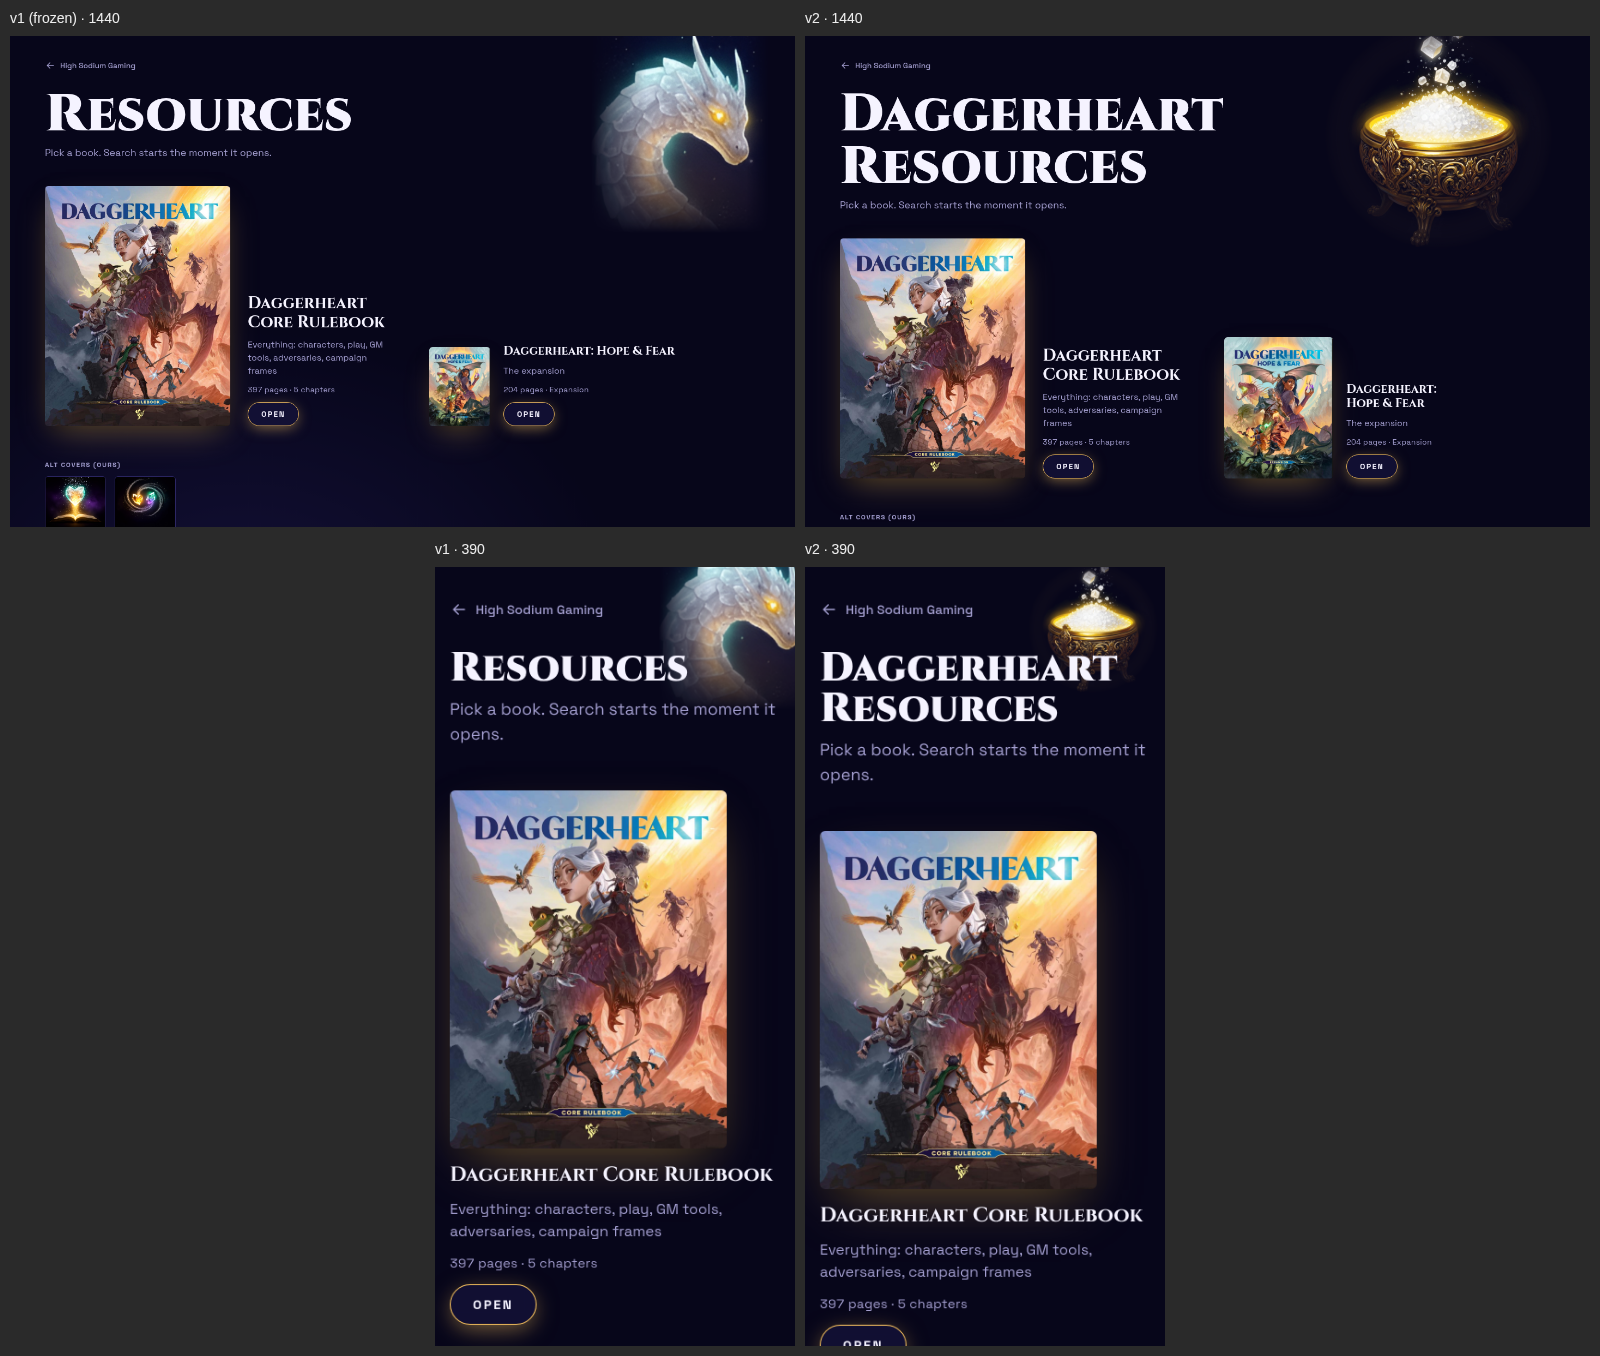
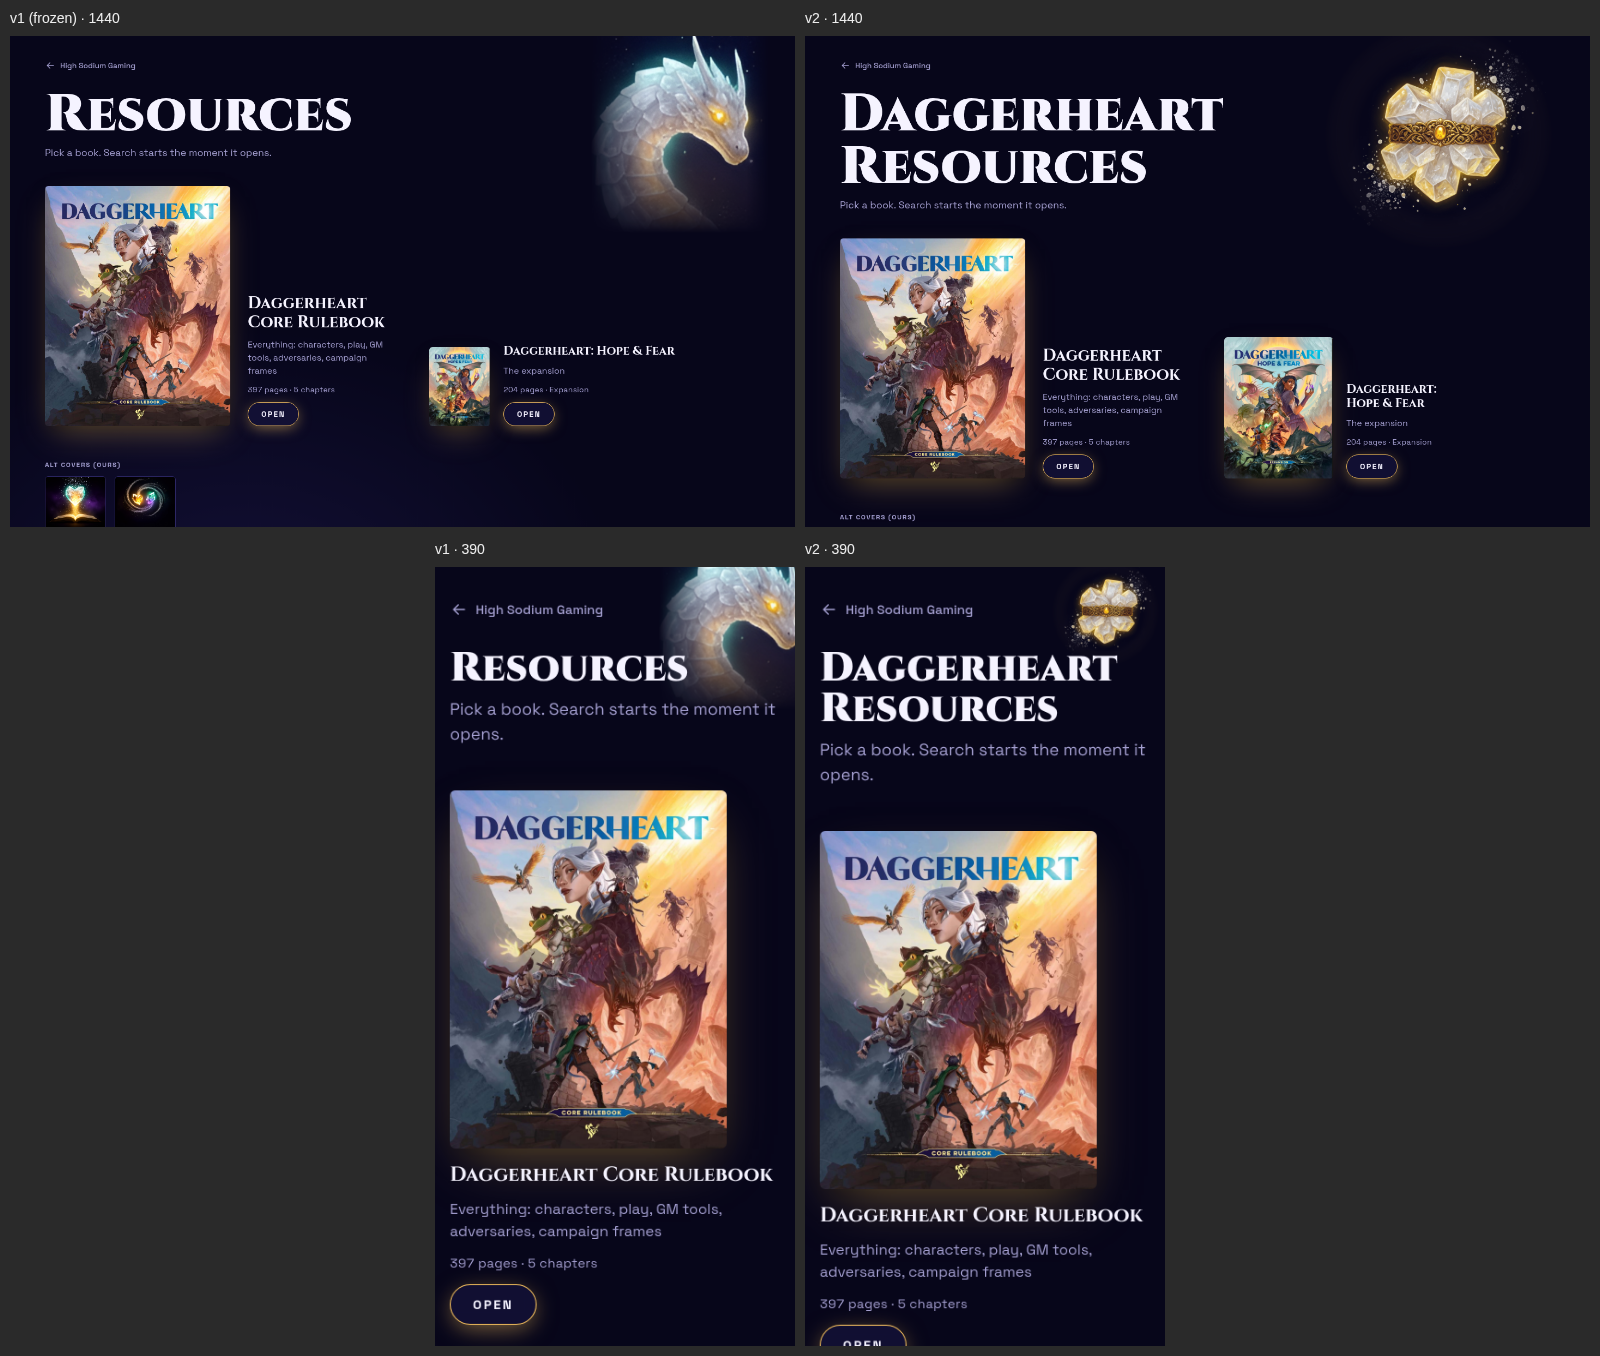
Design steer 1b: crystal cluster as the /resources art; cellar and hourglass as alternates

Changed region(s): [[0.8438, 0.031, 0.9688, 0.1858], [0.6562, 0.4027, 0.7188, 0.4956]]

diff --git a/design/directions/f1-wyrm-eclipse/resources.html b/design/directions/f1-wyrm-eclipse/resources.html
@@ -10,8 +10,8 @@
 <style>
 /* F1 v2 (steer 1): a fancy art piece top right with a glow of the heart gold behind it.
    The art sits on pure black; the whole piece is screen-blended onto the page so the black
-   disappears, and a radial mask removes any edge. Swap the art with ?art=hourglass|crystal. */
-.art { position: absolute; top: calc(var(--s3) * -1); right: 0; width: 40vw; max-width: 420px; aspect-ratio: 1; mix-blend-mode: screen; z-index: 0; pointer-events: none; }
+   disappears, and a radial mask removes any edge. Swap the art with ?art=cellar|hourglass. */
+.art { position: absolute; top: calc(var(--s4) * -1); right: 0; width: 33vw; max-width: 420px; aspect-ratio: 1; mix-blend-mode: screen; z-index: 0; pointer-events: none; }
 .art::before { content: ""; position: absolute; inset: 4%; border-radius: 50%;
   background: radial-gradient(closest-side, color-mix(in srgb, var(--gold) 46%, transparent), color-mix(in srgb, var(--gold) 16%, transparent) 55%, transparent); }
 .art img { position: relative; width: 100%; height: 100%; object-fit: cover; display: block;
@@ -41,10 +41,10 @@
 <body>
 <a class="skip" href="#main">Skip to content</a>
 <div class="res-page">
-  <div class="art" aria-hidden="true"><img id="art" src="../../imagery/G/g-art-salt-cellar.jpg" alt=""></div>
+  <div class="art" aria-hidden="true"><img id="art" src="../../imagery/G/g-art-crystal-cluster.jpg" alt=""></div>
   <script>
-  // one-word swap for Kaden: resources.html?art=hourglass | crystal (default: salt cellar)
-  (function () { const a = new URLSearchParams(location.search).get('art'); const m = { hourglass: 'g-art-hourglass', crystal: 'g-art-crystal-cluster' };
+  // one-word swap for Kaden: resources.html?art=cellar | hourglass (default: crystal cluster, Kaden 2026-11-15)
+  (function () { const a = new URLSearchParams(location.search).get('art'); const m = { cellar: 'g-art-salt-cellar', hourglass: 'g-art-hourglass', crystal: 'g-art-crystal-cluster' };
     if (m[a]) document.getElementById('art').src = '../../imagery/G/' + m[a] + '.jpg'; })();
   </script>
   <header class="res-head">

diff --git a/design/directions/f1-wyrm-eclipse/gate-note.md b/design/directions/f1-wyrm-eclipse/gate-note.md
@@ -2,11 +2,11 @@
 
 v1 is frozen at `../f1-wyrm-eclipse-v1-frozen/`. Side by side: `gate/steer-1/home-vs-v1.png`, `gate/steer-1/resources-vs-v1.png` (1440 and 390).
 
-**What it is now:** a dark indigo sky full of suspended salt grains with HIGH SODIUM GAMING glowing gold in the middle. Hover (or drag a finger) and the grains you touch fall and pile up along the bottom of the screen and on top of the DAGGERHEART RESOURCES pill. /resources is the v1 page with an ornate gilded salt cellar glowing top right where the wyrm head was.
+**What it is now:** a dark indigo sky full of suspended salt grains with HIGH SODIUM GAMING glowing gold in the middle. Hover (or drag a finger) and the grains you touch fall and pile up along the bottom of the screen and on top of the DAGGERHEART RESOURCES pill. /resources is the v1 page with a glowing salt-crystal cluster top right where the wyrm head was (Kaden 2026-11-15: "Crystal cluster looks great.").
 
 ## Changes from v1 (Kaden, DH13)
 1. **Wyrm out everywhere.** Home: wyrm image, heart-orb and pour point removed. /resources: the wyrm/hatchling peek removed; sample-shelf covers that were wyrm crops (4 of 6) now use `g-art-hourglass`, `g-art-crystal-cluster`, `f-cover-core`, `f-cover-hope-fear`. Viewer: had no wyrm. `grep -i "wyrm|hatchling|f-character-sheet"` across the three pages and both stylesheets: 0 hits. (The folder id keeps its name so links and the manifest still work.)
-2. **/resources:** unchanged layout, covers, type and colours. Top right: `../../imagery/G/g-art-salt-cellar.jpg`, screen-blended so its black disappears, a radial mask so it has no edge, and a glow of the heart gold `--gold` (#FFC861, F1's own token) behind it. The h1 is now "Daggerheart Resources"; at ≥ 900 px it is capped at 58% width so it wraps beside the art and never runs under it; on phone the art is smaller and sits above the heading. One-word swap: `resources.html?art=hourglass` or `?art=crystal` (renders: `resources-alt-hourglass-1440-first.png`, `resources-alt-crystal-1440-first.png`). The "Alt covers (ours)" strip stays: it sits below the books and does not fight the art.
+2. **/resources:** unchanged layout, covers, type and colours. Top right: `../../imagery/G/g-art-crystal-cluster.jpg` (steer 1b, Kaden 2026-11-15 "Crystal cluster looks great."; was the salt cellar), screen-blended so its black disappears, a radial mask so it has no edge, and a glow of the heart gold `--gold` (#FFC861, F1's own token) behind it. The h1 is now "Daggerheart Resources"; at ≥ 900 px it is capped at 58% width so it wraps beside the art; on phone the art is 33vw and sits above the heading, clear of "DAGGERHEART" (checked at 390 and 360). One-word swap: `resources.html?art=cellar` or `?art=hourglass` (renders: `resources-alt-cellar-1440-first.png`, `resources-alt-hourglass-1440-first.png`). The "Alt covers (ours)" strip stays: it sits below the books and does not fight the art. Note: the sample shelf (Session Zero Pack) also uses the crystal cluster as its cover, so it now appears twice on the page; left as is (steer 1b said nothing else changes); swap that cover to the salt cellar if Kaden wants it unique.
 3. **Home:** same font (Cinzel 900 chrome-to-gold wordmark) and colours. New hero: the salt field (below). A gentle gold glow stays behind the wordmark (where the orb was): a radial gradient, no object.
 4. **Button:** "DAGGERHEART RESOURCES" (measured: one line at 390, 342×56 px; two balanced lines at 360 and 320, 68 px tall; no horizontal overflow at any of them). /resources h1 "Daggerheart Resources"; viewer back link "Daggerheart Resources" (desktop label and phone aria-label).
 5. **Viewer:** only the back-link text changed.
@@ -35,7 +35,7 @@ v1 is frozen at `../f1-wyrm-eclipse-v1-frozen/`. Side by side: `gate/steer-1/hom
 - **Exclude check:** no frames, rules, rings or crusts. The page is a live salt simulation, not ornament. That is the interaction Kaden asked for (23:05 "Interactive salt on the screen?", 23:58 "a screen full of salt particles").
 - **Strongest part:** the moment of touch. Grains drop out of the sky under the pointer and you watch the pile grow at the bottom; at rest it is quiet and premium.
 - **Real risk:** without the wyrm, the home page leans on the salt alone. On a screenshot (not live) it can read as a generic starfield until someone touches it. The hint and the twinkles help, and the live page is the point.
-- **Images:** salt cellar is the strongest of the three G pieces (ornate, warm, clearly salt). Hourglass is elegant but says "time" more than "salt". The crystal cluster is the weakest (a crystal flower with a gold band; reads as jewellery).
+- **Images:** Kaden picked the crystal cluster (my note had called it the weakest of the three, reading as jewellery; his call stands). The salt cellar and hourglass stay as one-word alternates.
 
 ## Fonts
 Cinzel 700/900, Space Grotesk 400/500/700 (both OFL, Google Fonts). Unchanged.

diff --git a/design/_status-snapshot.md b/design/_status-snapshot.md
@@ -5,9 +5,9 @@
 **Blocked:**
 - Steer 1 review (Kaden): F1 v2 in `design/directions/f1-wyrm-eclipse/` (v1 frozen beside it). Start with `gate/steer-1/home-vs-v1.png` and `gate/steer-1/resources-vs-v1.png`, then `salt.webm` and `salt-1/2/3.png` (390) / `salt-*-1440.png`. Details in `gate-note.md`.
   - **Home:** same Cinzel gold wordmark and colours; the wyrm and orb are gone; the whole sky is suspended salt grains (round, soft, faint gold glint, slow drift, a few twinkles). Hover or drag a finger and the grains you touch fall and pile along the bottom and on the pill; a tap knocks loose a burst. Button reads DAGGERHEART RESOURCES (one line at 390). A gold glow stays behind the name. Reduced motion: static field + settled pile. 60 fps median and p95 at 390 and 1440 in headless Chromium.
-  - **/resources:** unchanged except the top-right art: a gilded salt cellar of glowing salt with a heart-gold glow behind it, no edge; h1 "Daggerheart Resources". Swap with one word: `?art=hourglass` or `?art=crystal` (renders beside it). Wyrm crops on the sample shelf replaced.
+  - **/resources:** unchanged except the top-right art: the salt-crystal cluster Kaden picked (07:10), screen-blended with a heart-gold glow behind it, no edge; h1 "Daggerheart Resources". Alternates with one word: `?art=cellar` or `?art=hourglass` (renders beside it). Wyrm crops on the sample shelf replaced (one of them, Session Zero Pack, also uses the crystal cluster; swap it if he wants the art unique).
   - **Viewer:** back link "Daggerheart Resources"; nothing else changed.
-  - Two small calls for Kaden: keep or drop the "Touch the salt" hint under the button (default: keep); salt cellar vs hourglass vs crystal (default: salt cellar).
+  - One small call left for Kaden: keep or drop the "Touch the salt" hint under the button (default: keep). Art: crystal cluster (decided 07:10).
   - Real risk: with the creature gone, a still screenshot of home reads close to a plain starfield; the live interaction carries the brand.
 
 ## Profile and stack
@@ -65,6 +65,7 @@ Portfolio/brochure (small resource site). Next.js 16.4.3 App Router, React 19.3,
 | 2026-11-14 | Added a 3-word hint "Touch the salt" under the button that leaves on first touch. | Phone users can't hover; without a cue the field reads as a still starfield. Easy to drop. |
 | 2026-11-14 | /resources h1 capped at 58% width on desktop so "Daggerheart Resources" wraps beside the art. | The longer title ran under the art in the first v2 render. |
 | 2026-11-14 | Removed v1's CSS drop-shadow filter on the salt canvas. | It repainted the full screen every frame; the sprites carry their own glow. |
+| 2026-11-15 | Steer 1b: crystal cluster is the /resources art; on phone the art is 33vw (was 40vw) so the crystal clears the heading. | Kaden 07:10; the crystal fills more of its square than the cellar did. |
 
 ## Spend
 Design-1d run: ~$2.20. Stage 2 run: ~$10.5 of the $30 run cap. Stage 2 redo phase 1: ~$2. Phase 2: ~$10.2 of $30. Steer 1: ~$5.5 of $30.

diff --git a/design/_brief-snapshot.md b/design/_brief-snapshot.md
@@ -65,3 +65,4 @@ Written by RobBot from Kaden's requests (chat, Nov 12-14, 2026). The Leader trea
 - 2026-11-14 23:55: DH13: Kaden picked F1 with changes (chat): resources page 'almost perfect', fancy art piece top right + yellow glow instead of the wyvern; wyvern out of both; home: keep font and colours, screen full of salt particles that fall to the bottom and collect on hover; 'Daggerheart Resources' instead of 'Resources'. Art piece: generated salt cellar (alts: hourglass, crystal cluster).
 - 2026-11-15 07:10: Kaden: "Crystal cluster looks great." /resources art piece = g-art-crystal-cluster.
 - 2026-11-14 23:58 (DH13): Kaden picked F1 (f1-wyrm-eclipse) with changes: "I think the resources page here is almost perfect. I just want a fancy art piece in the top right hand corner instead and a glow of that yellow. Take the wyvern out of both. For home, love the font and colors. I want a screen full of salt particles that when hovered fall to the bottom of the screen and collect there. Instead of resources, let's put Daggerheart Resources." Steer 1 built as F1 v2.
+- 2026-11-15 07:10 (steer 1b): Kaden: "Crystal cluster looks great." The crystal cluster is the /resources art; salt cellar and hourglass stay as alternates.
